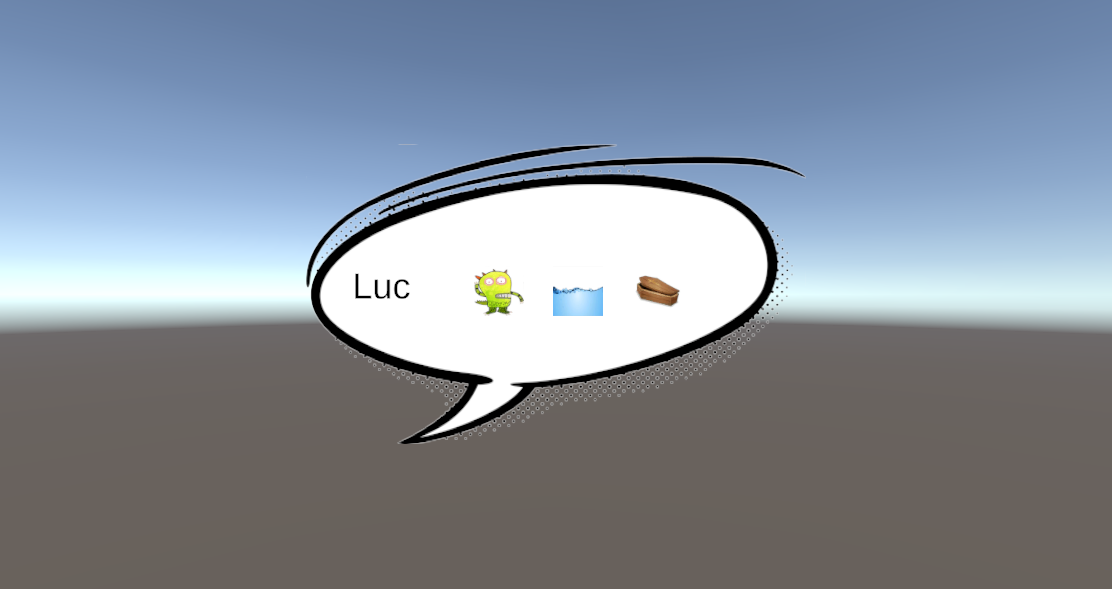
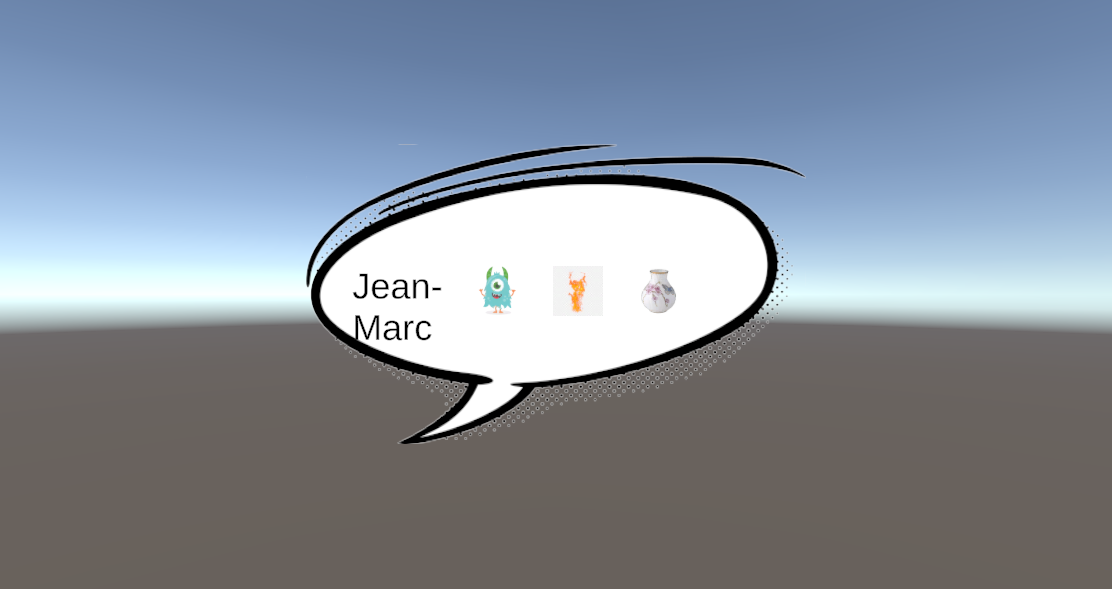
QueteListDecreasingWhenQueteisTaken

Changed region(s): [[0.4281, 0.4584, 0.6115, 0.5501], [0.3058, 0.4584, 0.3975, 0.5806]]

diff --git a/Assets/Scripts/PNJ/Request.cs b/Assets/Scripts/PNJ/Request.cs
@@ -9,38 +9,49 @@ using Random = UnityEngine.Random;
 
 public class Request : MonoBehaviour
 {
-    [SerializeField] private ScriptableRequest _scriptableRequest;
     [SerializeField] private ScriptableTextureData _textureData;
     [SerializeField] private RequestDataBase _requestInfos;
     [SerializeField] private TextMeshProUGUI nameText;
     [SerializeField] private RawImage corpseImage;
     [SerializeField] private RawImage localisationImage;
     [SerializeField] private RawImage coffinImage;
-    
+    private QuestManager _questManager;
+
 
     private void Awake()
     {
-        setRequest();
-        
+        _questManager = GameObject.FindObjectOfType<QuestManager>();
     }
 
     private void Start()
     {
-        UpdateUI();
+        SetRequest();
     }
 
     private void Update()
     {
-        if (Input.GetKeyDown(KeyCode.R))
+        if (Input.GetKeyDown(KeyCode.D))
         {
-            setRequest();
-            UpdateUI();
+            SetRequest();
         }
     }
 
-    private void setRequest()
+    private void SetRequest()
     {
-        _requestInfos = _scriptableRequest._dataBase[GetRandomNumber(_scriptableRequest._dataBase.Count)];
+        if (_questManager.allQuests.Count > 0)
+        {
+            int index = GetRandomNumber(_questManager.allQuests.Count);
+            Debug.Log(index);
+            _requestInfos = _questManager.allQuests[index];
+            _questManager.activeQuests.Add(_requestInfos);
+            _questManager.allQuests.Remove(_requestInfos);
+            UpdateUI();
+        }
+        else
+        {
+            Debug.Log("t'as pris toutes les requetes chacal");
+        }
+        
     }
 
     private int GetRandomNumber(int arrayCount)

diff --git a/Assets/Scripts/Character/QuestManager.cs b/Assets/Scripts/Character/QuestManager.cs
@@ -1,0 +1,19 @@
+using System;
+using System.Collections;
+using System.Collections.Generic;
+using UnityEngine;
+
+public class QuestManager : MonoBehaviour
+{
+    [SerializeField] private ScriptableRequest _scriptableRequestBase;
+    public List<RequestDataBase> activeQuests;
+    public List<RequestDataBase> allQuests = new List<RequestDataBase>();
+
+    private void Awake()
+    {
+        foreach (var quest in _scriptableRequestBase._dataBase)
+        {
+            allQuests.Add(quest);
+        }
+    }
+}
